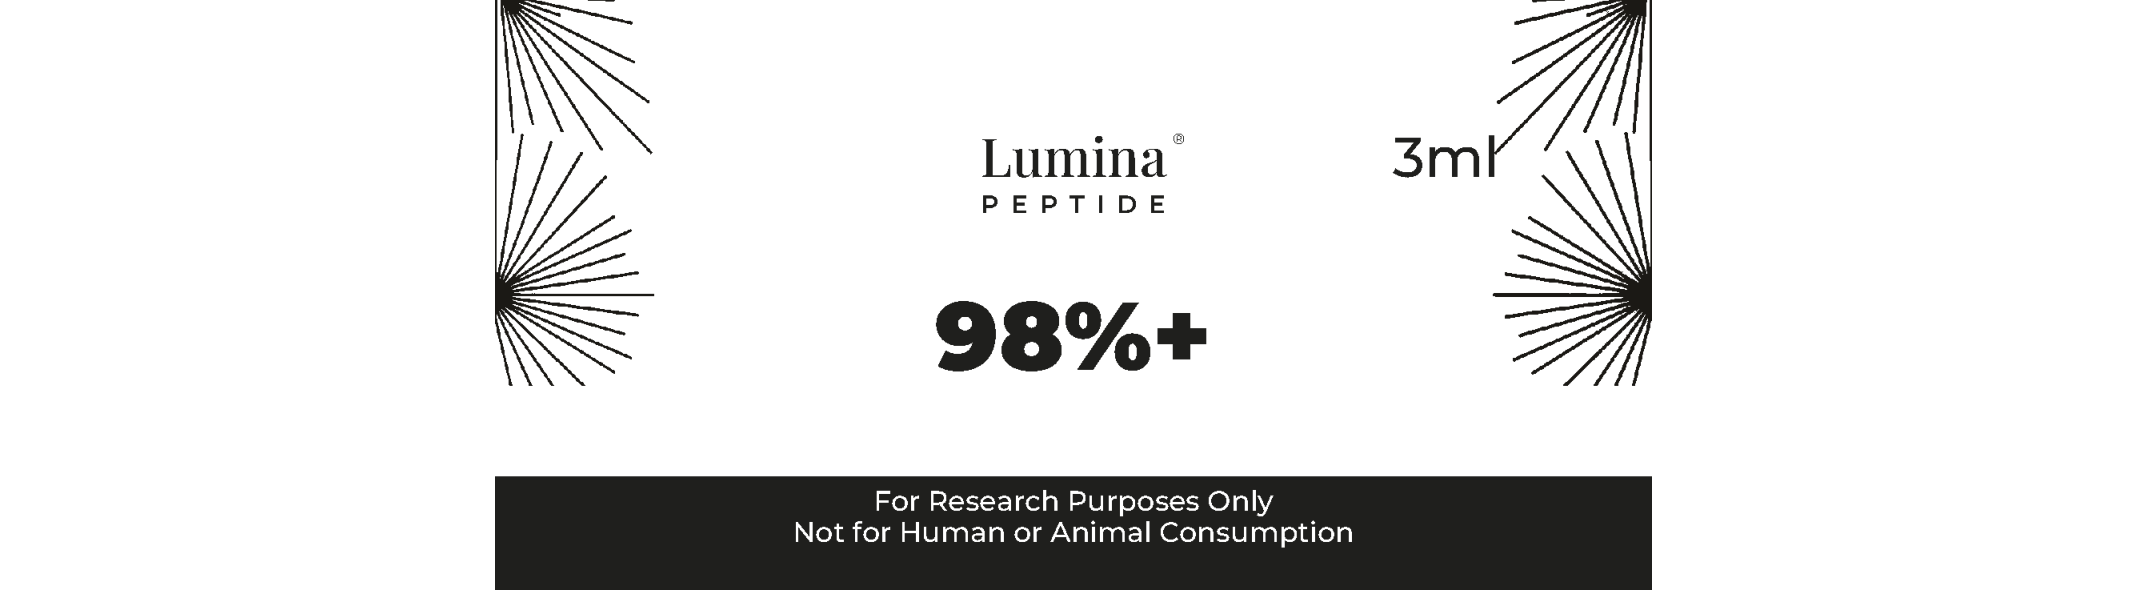
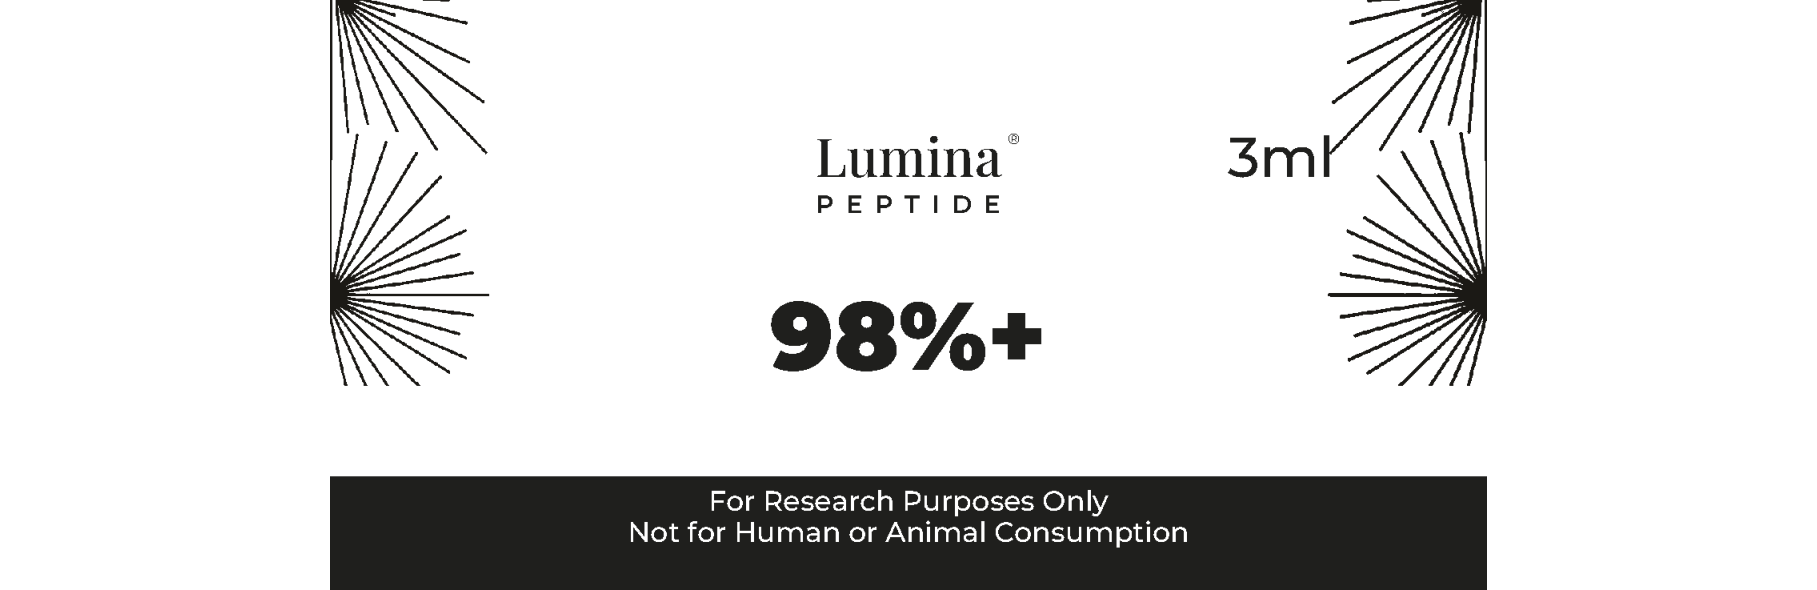
feat: rótulo mais alto (proporção 3.08:1) + textura porosa no pó GHK-Cu
- rótulo "curto": altura aumentada (0.52H) descendo até perto da base;
  texturas _wide regeneradas em 3.08:1 p/ casar com a altura → wrap 360°
  sem distorção, texto legível e proporcional, verso fecha escuro
- pó: textura porosa/craquelada procedural (grânulos claros/escuros +
  trincas + bumpMap) no lugar do azul chapado; topo irregular
- bolo de pó dimensionado p/ aparecer abaixo do rótulo com folga

diff --git a/index.html b/index.html
@@ -3054,8 +3054,8 @@
         // Label cylinder — filho de obj em coords locais (cm). CylinderGeometry é
         // CENTRADO em localLblY. Rótulo no terço médio-superior → deixa o fundo livre
         // p/ ver o pó azul GHK-Cu (relY 0–0.34) e o gargalo de vidro no topo.
-        const localLblH  = rawH * 0.44;                  // altura cheia (proporção correta com a textura larga, não comprimido)
-        const localLblY  = rawMinY + rawH * 0.41;        // mais baixo → base relY ~0.19, topo ~0.63 (como a referência)
+        const localLblH  = rawH * 0.52;                  // rótulo alto (proporção casada com a textura 3.08:1)
+        const localLblY  = rawMinY + rawH * 0.40;        // base relY ~0.14, topo ~0.66 — deixa o fundo p/ o bolo de pó com textura visível
         const localBodyR = bodyRlocal * 1.006;              // 0.6% fora do glass garante label à frente
         const lblGeo     = new THREE.CylinderGeometry(
           localBodyR, localBodyR, localLblH, 256, 1, true,
@@ -3066,13 +3066,37 @@
         lblMesh.position.y = localLblY;
         obj.add(lblMesh);
 
-        // Pó liofilizado GHK-Cu — bolo sólido azul VÍVIDO (cor de cobre-peptídeo),
-        // leve emissão p/ ser visível através do vidro mesmo no escuro; topo irregular.
+        // Pó liofilizado GHK-Cu — bolo azul com textura porosa/craquelada procedural
+        const powderCanvas = (() => {
+          const s = 256, c = document.createElement('canvas'); c.width = c.height = s;
+          const x = c.getContext('2d');
+          x.fillStyle = '#3a52d4'; x.fillRect(0, 0, s, s);
+          for (let i = 0; i < 9000; i++) {            // grânulos claros/escuros = aspecto poroso
+            const px = Math.random()*s, py = Math.random()*s, r = Math.random()*2.2 + 0.4;
+            x.fillStyle = Math.random() < 0.5
+              ? `rgba(155,175,255,${Math.random()*0.5})`
+              : `rgba(12,20,86,${Math.random()*0.6})`;
+            x.beginPath(); x.arc(px, py, r, 0, 6.3); x.fill();
+          }
+          x.strokeStyle = 'rgba(8,12,58,0.6)';        // trincas finas = craquelado do liofilizado
+          for (let i = 0; i < 42; i++) {
+            x.lineWidth = Math.random()*1.4 + 0.3; x.beginPath();
+            let px = Math.random()*s, py = Math.random()*s; x.moveTo(px, py);
+            for (let k = 0; k < 6; k++) { px += (Math.random()-0.5)*46; py += (Math.random()-0.5)*46; x.lineTo(px, py); }
+            x.stroke();
+          }
+          return c;
+        })();
+        const powderTex = new THREE.CanvasTexture(powderCanvas);
+        powderTex.wrapS = powderTex.wrapT = THREE.RepeatWrapping;
+        powderTex.repeat.set(3, 2);
+        powderTex.anisotropy = maxAniso;
         const matPowder   = new THREE.MeshStandardMaterial({
-          color: 0x4258e0, roughness: 1.0, metalness: 0.0, flatShading: true,
-          emissive: new THREE.Color(0x2236c0), emissiveIntensity: 0.6, // leve auto-luz p/ ler azul sob luz quente
+          color: 0x4a62e6, map: powderTex, bumpMap: powderTex, bumpScale: 0.045,
+          roughness: 1.0, metalness: 0.0,
+          emissive: new THREE.Color(0x223bcc), emissiveIntensity: 0.5, // auto-luz leve p/ ler azul sob luz quente
         });
-        const powderH    = rawH * 0.12;                            // bolo liofilizado pequeno no fundo (relY ~0.035–0.155), abaixo da base do rótulo (0.19)
+        const powderH    = rawH * 0.085;                           // bolo no fundo (relY ~0.035–0.12), textura visível, abaixo da base do rótulo (0.14)
         const powderR    = bodyRlocal * 0.84;                      // quase encosta nas paredes do vidro
         const powderCY   = rawMinY + rawH * 0.035 + powderH * 0.5; // encostado no fundo (sem gap = base fina)
         const powderGeo  = new THREE.CylinderGeometry(